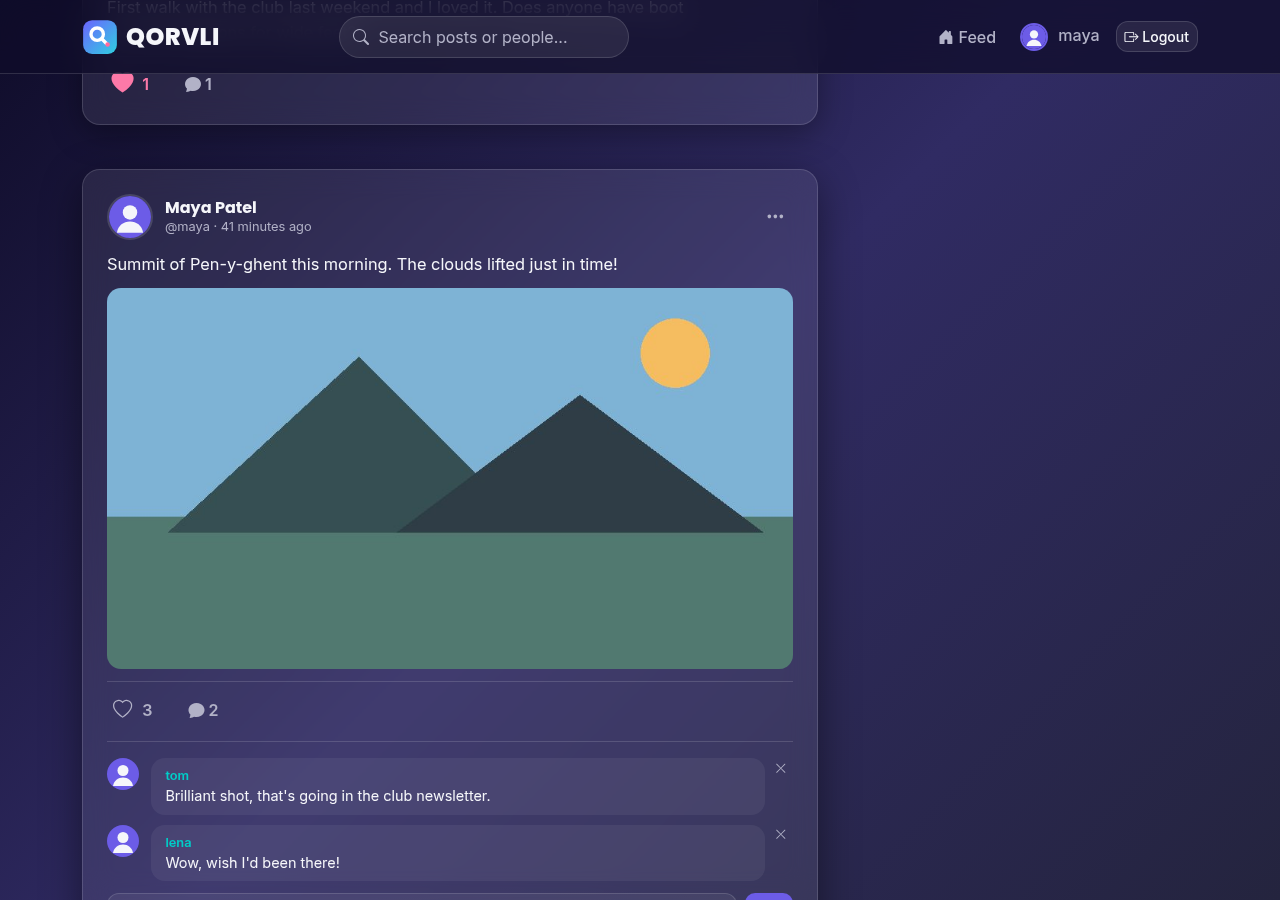
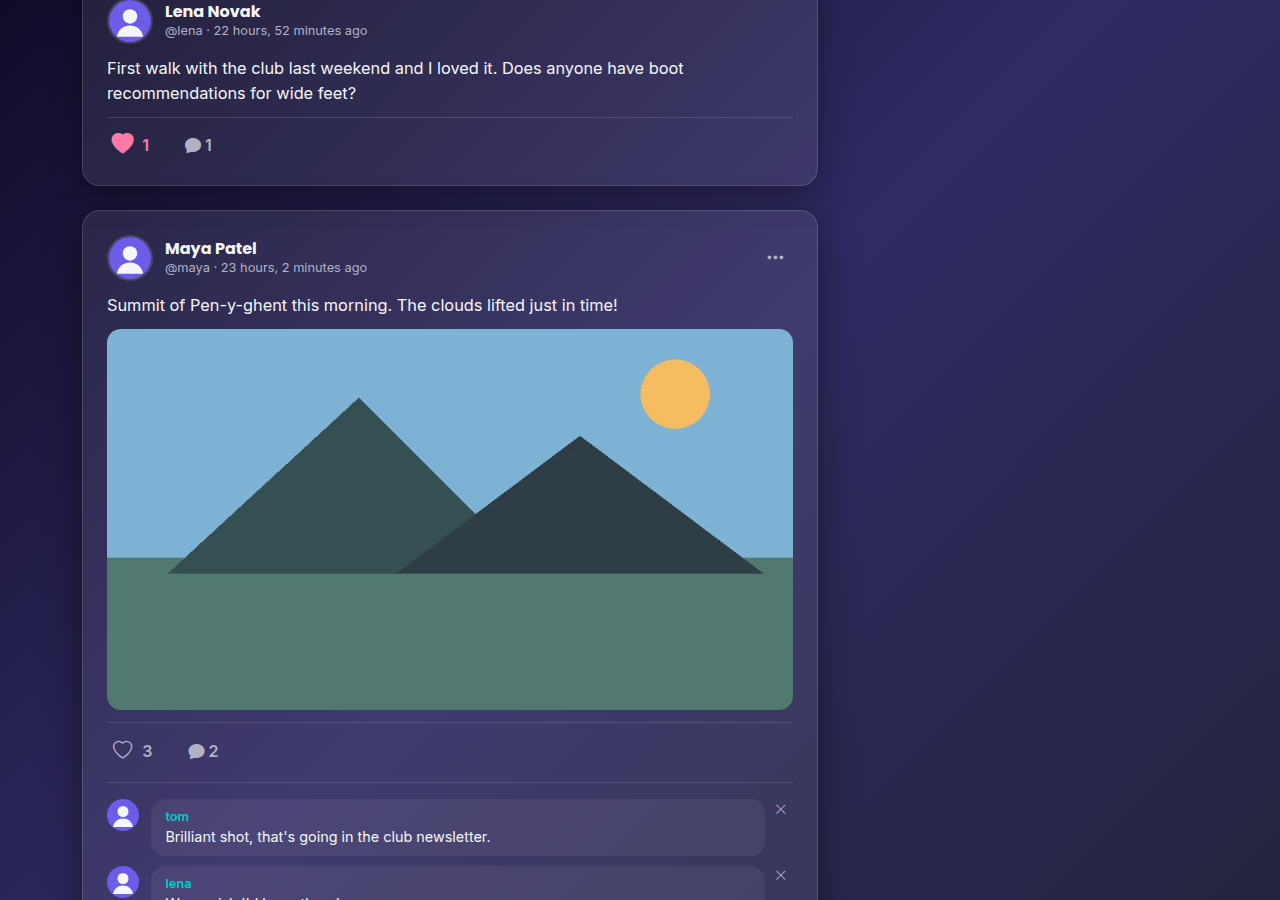
README: desktop, tablet and mobile screenshots; embed wireframes
- Retake all screenshots after the CSS and HTML audit, and add tablet
  (768px) views of the feed and profile
- Show screenshots in a desktop / tablet / mobile table, plus a table
  of feature screenshots
- Rebuild the hero mockup with a laptop, tablet and phone
- Embed the four design-phase wireframes in the UX section with a short
  description of each, instead of only linking to them
- Remove the backdrop-filter design note (no longer used)

Claude-Session: https://claude.ai/code/session_01FzJjCMALJw5VXdvXZRxod5

diff --git a/README.md b/README.md
@@ -8,7 +8,7 @@ with full create, read, update and delete (CRUD) functionality.
 
 **Live site:** _add your Heroku URL here after deploying_
 
-![QORVLI shown on a laptop (the feed) and a phone (a member's profile)](docs/screenshots/hero.png)
+![QORVLI on a laptop (the feed), a tablet (a member's profile) and a phone (the feed)](docs/screenshots/hero.png)
 
 ## Contents
 
@@ -100,13 +100,21 @@ How each story is met is tested in
 
 ### Screenshots
 
-| Desktop | Mobile |
+Screenshots of the working application at desktop (1280px), tablet (768px)
+and mobile (390px) widths.
+
+| Desktop | Tablet | Mobile |
+|---|---|---|
+| ![Feed on desktop](docs/screenshots/feed-desktop.png) | ![Feed on tablet](docs/screenshots/feed-tablet.png) | ![Feed on mobile](docs/screenshots/feed-mobile.png) |
+| ![Profile on desktop](docs/screenshots/profile-desktop.png) | ![Profile on tablet](docs/screenshots/profile-tablet.png) | ![Profile on mobile](docs/screenshots/profile-mobile.png) |
+
+| Feature | Screenshot |
 |---|---|
-| ![Post with comments](docs/screenshots/post-comments-desktop.png) | ![Feed on mobile](docs/screenshots/feed-mobile.png) |
-| ![Profile page](docs/screenshots/profile-desktop.png) | ![Profile on mobile](docs/screenshots/profile-mobile.png) |
-| ![Search results](docs/screenshots/search-desktop.png) | ![Mobile menu](docs/screenshots/menu-mobile.png) |
-| ![Delete confirmation](docs/screenshots/delete-confirm-desktop.png) | |
-| ![Login page](docs/screenshots/login.png) | |
+| Comments under a post | ![Post with comments](docs/screenshots/post-comments-desktop.png) |
+| Search results | ![Search results](docs/screenshots/search-desktop.png) |
+| Delete confirmation | ![Delete confirmation modal](docs/screenshots/delete-confirm-desktop.png) |
+| Mobile navigation menu | ![Mobile menu open](docs/screenshots/menu-mobile.png) |
+| Login page | ![Login page](docs/screenshots/login.png) |
 
 ### Possible future features
 
@@ -121,18 +129,31 @@ How each story is met is tested in
 
 ### Wireframes
 
-Wireframes for the main screens are in [`docs/wireframes/`](docs/wireframes/):
+Wireframes for the main screens were drawn before building the pages and
+are kept in [`docs/wireframes/`](docs/wireframes/).
 
-- [`01-feed-wireframe.svg`](docs/wireframes/01-feed-wireframe.svg): navbar
-  with search, a post composer, post cards with like/comment actions, and a
-  "suggested users" sidebar on wide screens.
-- [`02-profile-wireframe.svg`](docs/wireframes/02-profile-wireframe.svg):
-  banner, avatar, bio and details, an edit button (owner only), and that
-  user's posts.
-- [`03-auth-wireframe.svg`](docs/wireframes/03-auth-wireframe.svg): login
-  and sign-up screens, showing where validation errors appear.
-- [`04-mobile-responsive-wireframe.svg`](docs/wireframes/04-mobile-responsive-wireframe.svg):
-  the single-column layout with a hamburger menu below the 992px breakpoint.
+**Feed:** navbar with search, the post composer, post cards with like and
+comment actions, and a "Suggested for you" sidebar on wide screens.
+
+![Feed wireframe](docs/wireframes/01-feed-wireframe.svg)
+
+**Profile:** banner, avatar, bio and details, an Edit Profile button shown
+only to the owner, and that member's posts.
+
+![Profile wireframe](docs/wireframes/02-profile-wireframe.svg)
+
+**Login and sign-up:** single-column forms, showing where validation
+errors appear.
+
+![Login and sign-up wireframe](docs/wireframes/03-auth-wireframe.svg)
+
+**Mobile:** below the 992px breakpoint the layout becomes one column, the
+search box moves into the hamburger menu and the sidebar is hidden.
+
+![Mobile wireframe](docs/wireframes/04-mobile-responsive-wireframe.svg)
+
+The finished pages follow these layouts; compare them with the
+[screenshots](#screenshots) above.
 
 ### Design principles applied
 
@@ -169,7 +190,6 @@ Wireframes for the main screens are in [`docs/wireframes/`](docs/wireframes/):
 | The "Suggested for you" sidebar is hidden below 992px. | On phones it would push the feed, the main content, far down the page. |
 | Comments can't be edited, only deleted. | Comments are short; delete-and-repost keeps the data model and UI simple. Listed as a future feature. |
 | Members can't edit other members' content, and site staff moderate through the Django admin rather than in the main UI. | Keeps the member interface simple and makes permission checks easy to reason about. |
-| `backdrop-filter` is used for the frosted-glass panels. | It keeps text readable over content scrolling under the sticky navbar. It works in all current browsers but is not recognised by every CSS validator (see `TESTING.md`). |
 | `README.md`, `TESTING.md`, `LICENSE` and `Procfile` contain capitals. | These names are conventions that GitHub and Heroku look for (Heroku requires exactly `Procfile`). All other files and folders are lower-case with no spaces. |
 
 ---
